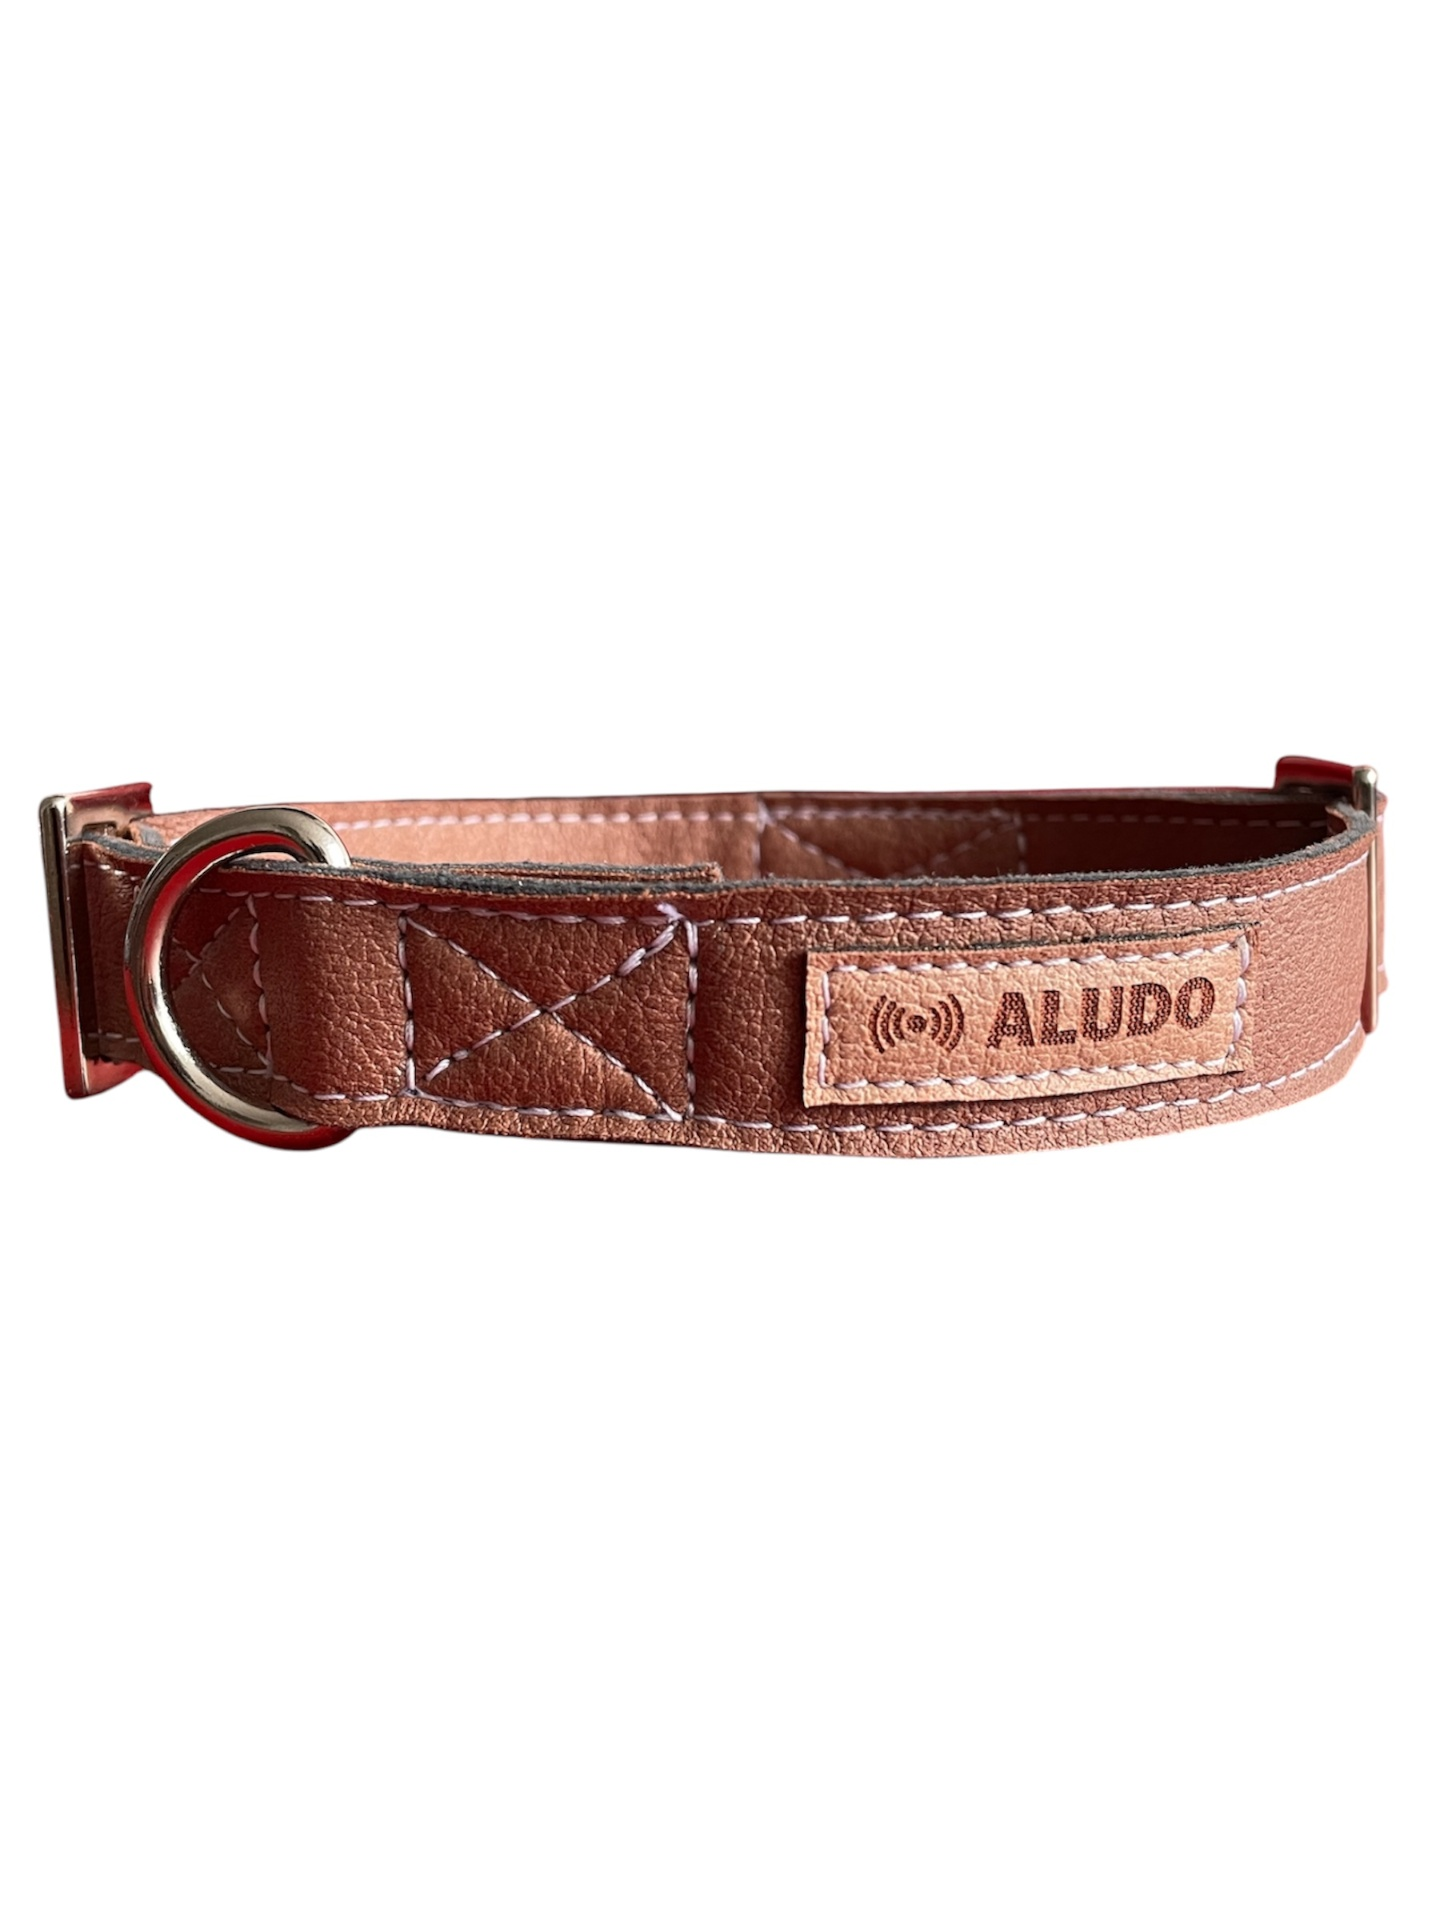
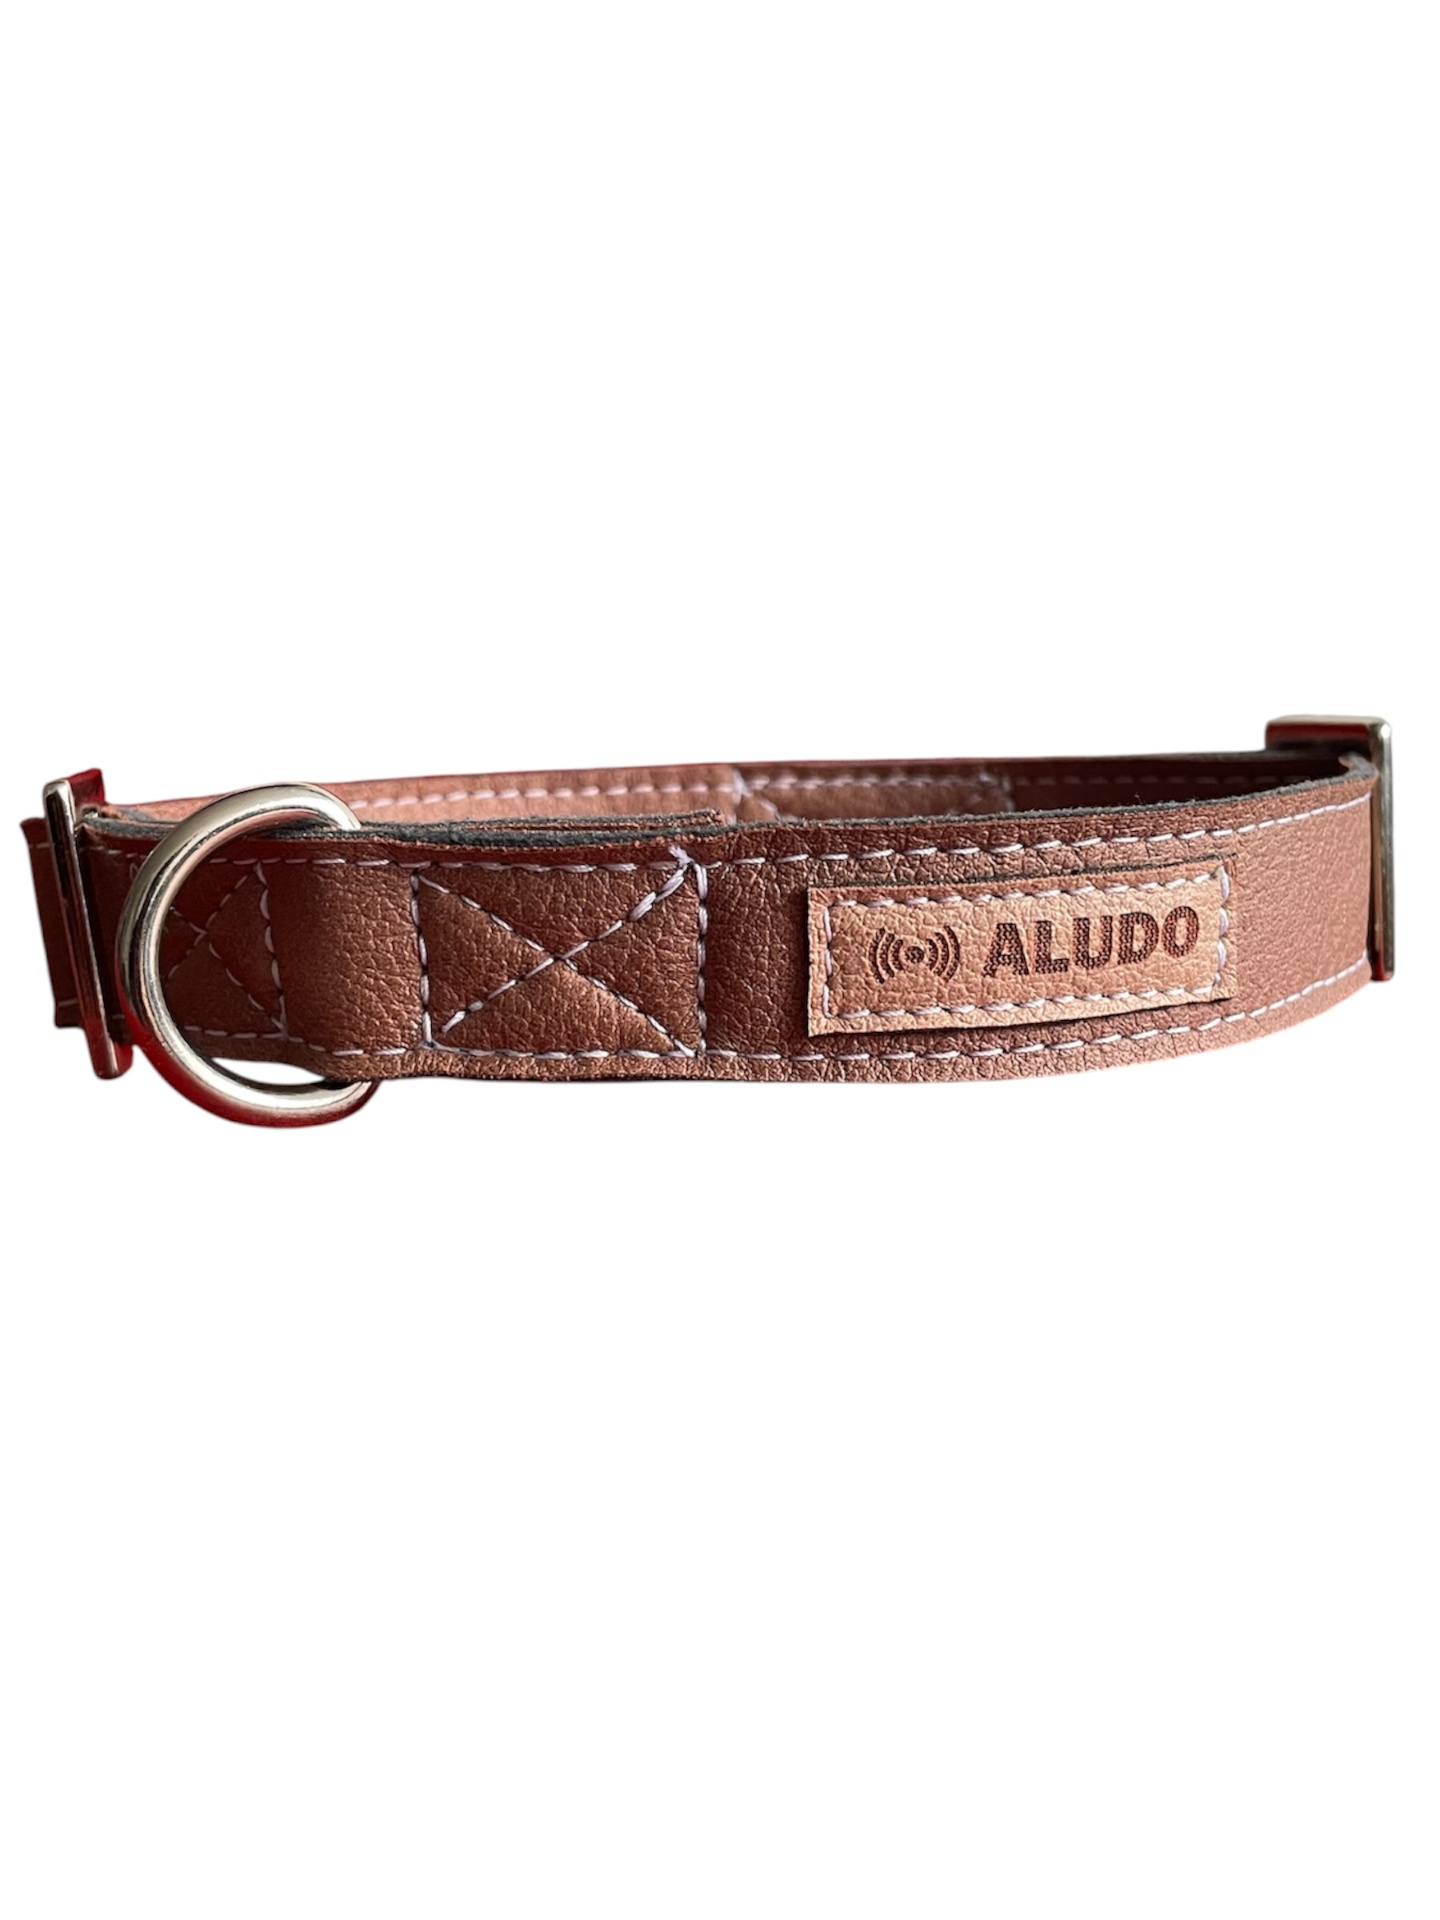
Changes

Changed region(s): [[0.0, 0.375, 0.9688, 0.625]]

diff --git a/src/components/ProductCard.tsx b/src/components/ProductCard.tsx
@@ -54,7 +54,7 @@ const ProductCard = ({ product, onAddToCart }: ProductCardProps) => {
             alt={`Collar inteligente ALUDO ${product.color} para perros Colombia`}
             loading="lazy"
             decoding="async"
-            className={`w-full h-full object-contain p-0 md:p-3 scale-125 md:scale-100 transition-opacity duration-500 ${
+            className={`w-full h-full object-contain p-3 transition-opacity duration-500 ${
               isMobile
                 ? showAlt ? 'opacity-0' : 'opacity-100'
                 : product.hoverImage ? 'group-hover:opacity-0' : 'group-hover:scale-105 transition-transform duration-300'
@@ -66,7 +66,7 @@ const ProductCard = ({ product, onAddToCart }: ProductCardProps) => {
               alt={`${product.name} lifestyle`}
               loading="lazy"
               decoding="async"
-              className={`absolute inset-0 w-full h-full object-contain p-0 md:p-3 scale-125 md:scale-100 transition-opacity duration-500 ${
+              className={`absolute inset-0 w-full h-full object-contain p-3 transition-opacity duration-500 ${
                 isMobile
                   ? showAlt ? 'opacity-100' : 'opacity-0'
                   : 'opacity-0 group-hover:opacity-100'
